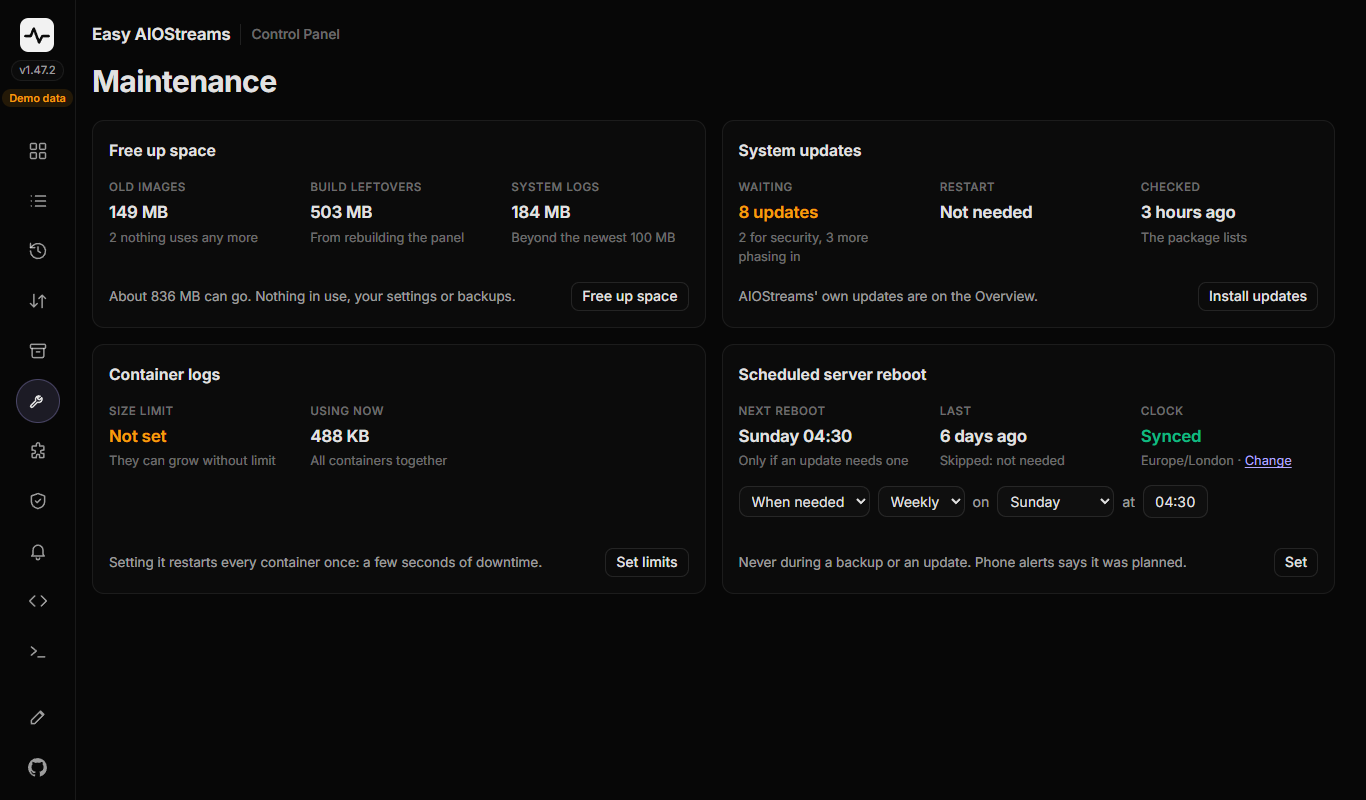
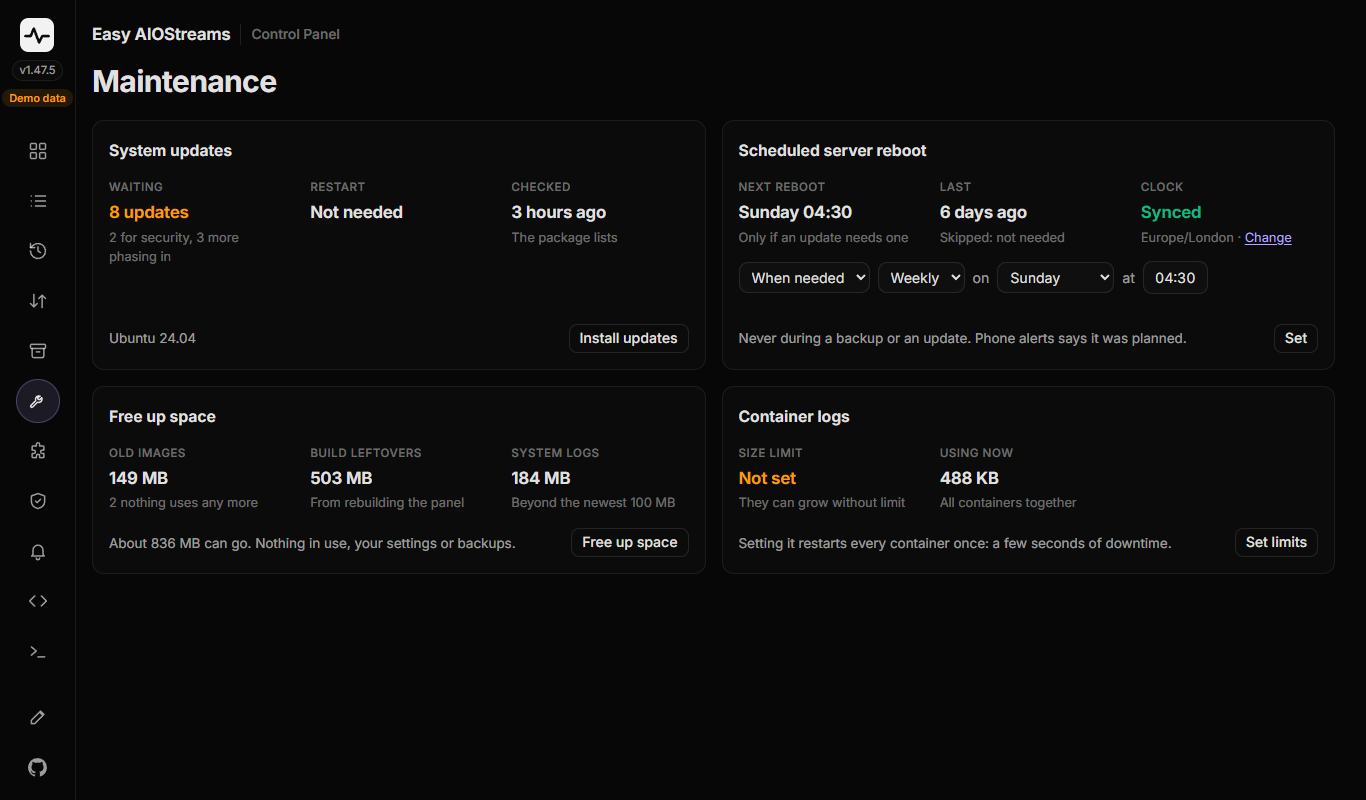
Changelog and Maintenance screenshot for panel 1.47.5

diff --git a/CHANGELOG.md b/CHANGELOG.md
@@ -2,6 +2,10 @@
 
 Notable changes to easy-aiostreams, newest first. Control panel versions are in brackets. Each entry links to its pull request for the full detail.
 
+## 1 November 2026
+
+- **Fixed:** Restart stack's confirm now says what it restarts (AIOStreams and Caddy, and the VPN if it's on) instead of "the whole stack". Maintenance shows System updates and Scheduled server reboot first, and System updates names the server's system (Ubuntu 26.04, Debian 13) in place of an old note about AIOStreams. (Panel 1.47.5, [#115](https://github.com/alpinezx/easy-aiostreams/pull/115))
+
 ## 31 October 2026
 
 - **Fixed:** the Overview no longer sits mostly blank for a second or two while it opens. The browser now fetches all the panel's scripts at once, asks for your login and the server's status together, the server's first reading no longer pauses to measure CPU, and Caddy compresses the panel's files to about a quarter of their size. The Overview then appears all at once, with no empty card frames first. Caddy picks up the compression when the panel updates. (Panel 1.47.4, [#114](https://github.com/alpinezx/easy-aiostreams/pull/114))
